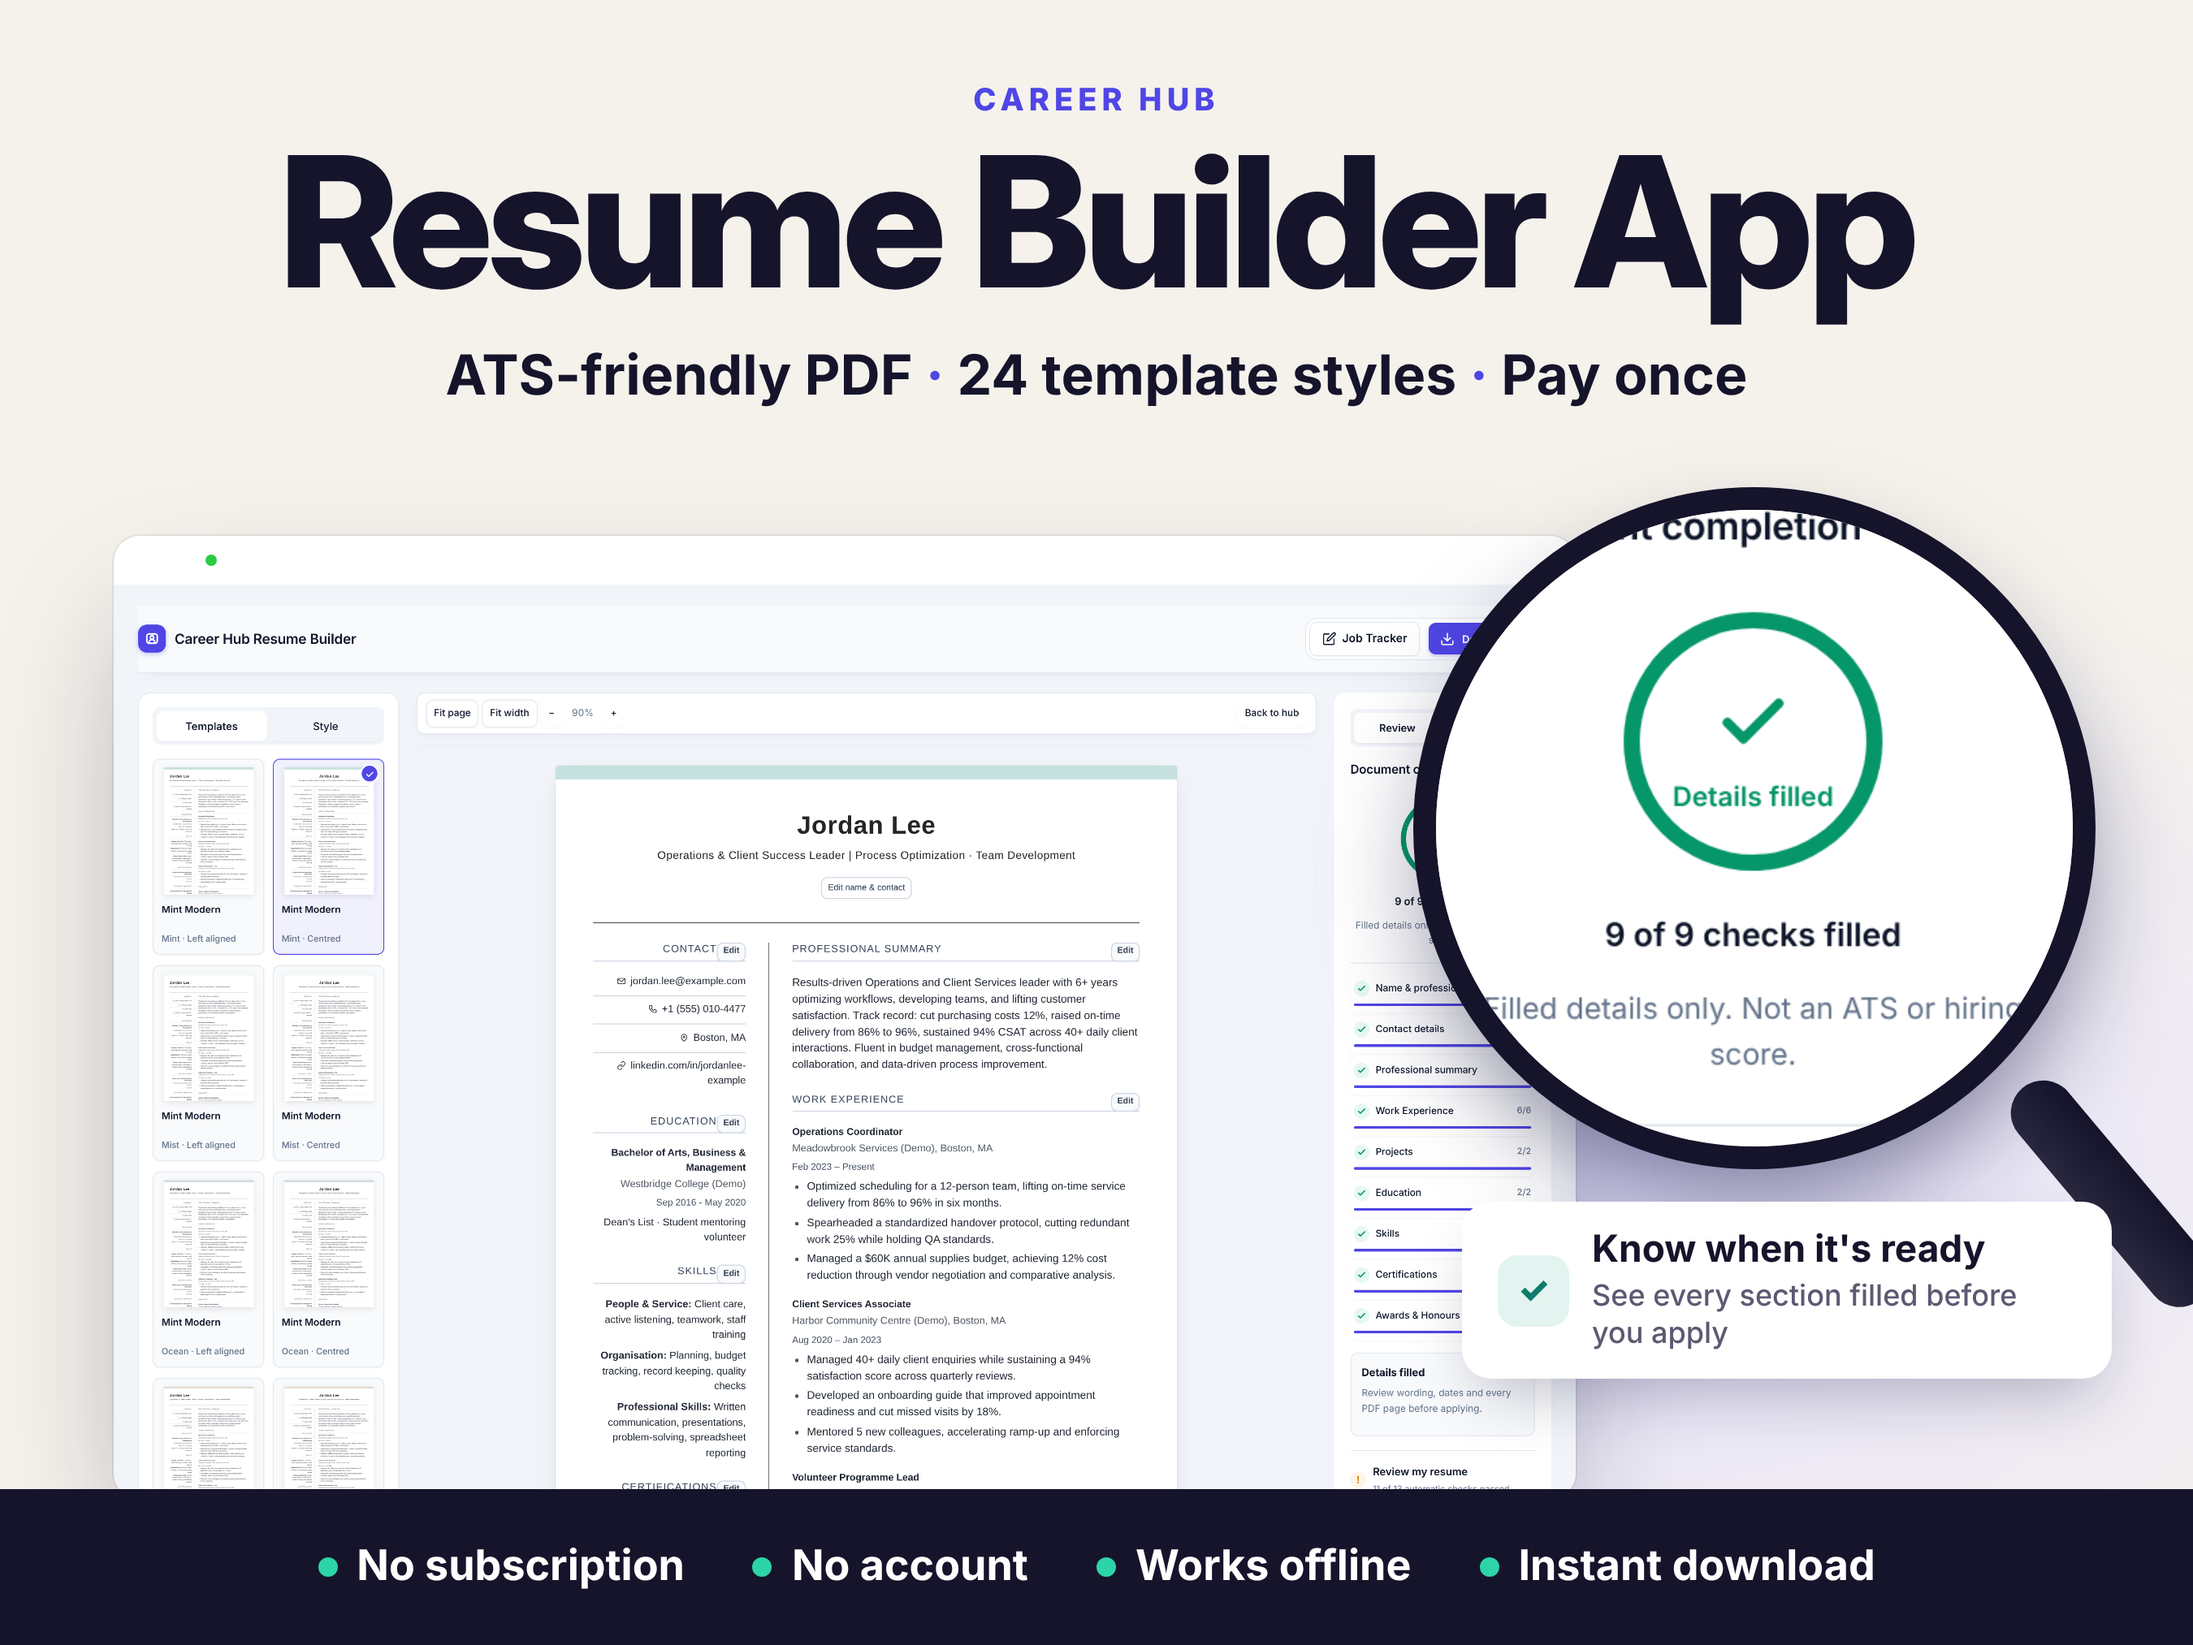
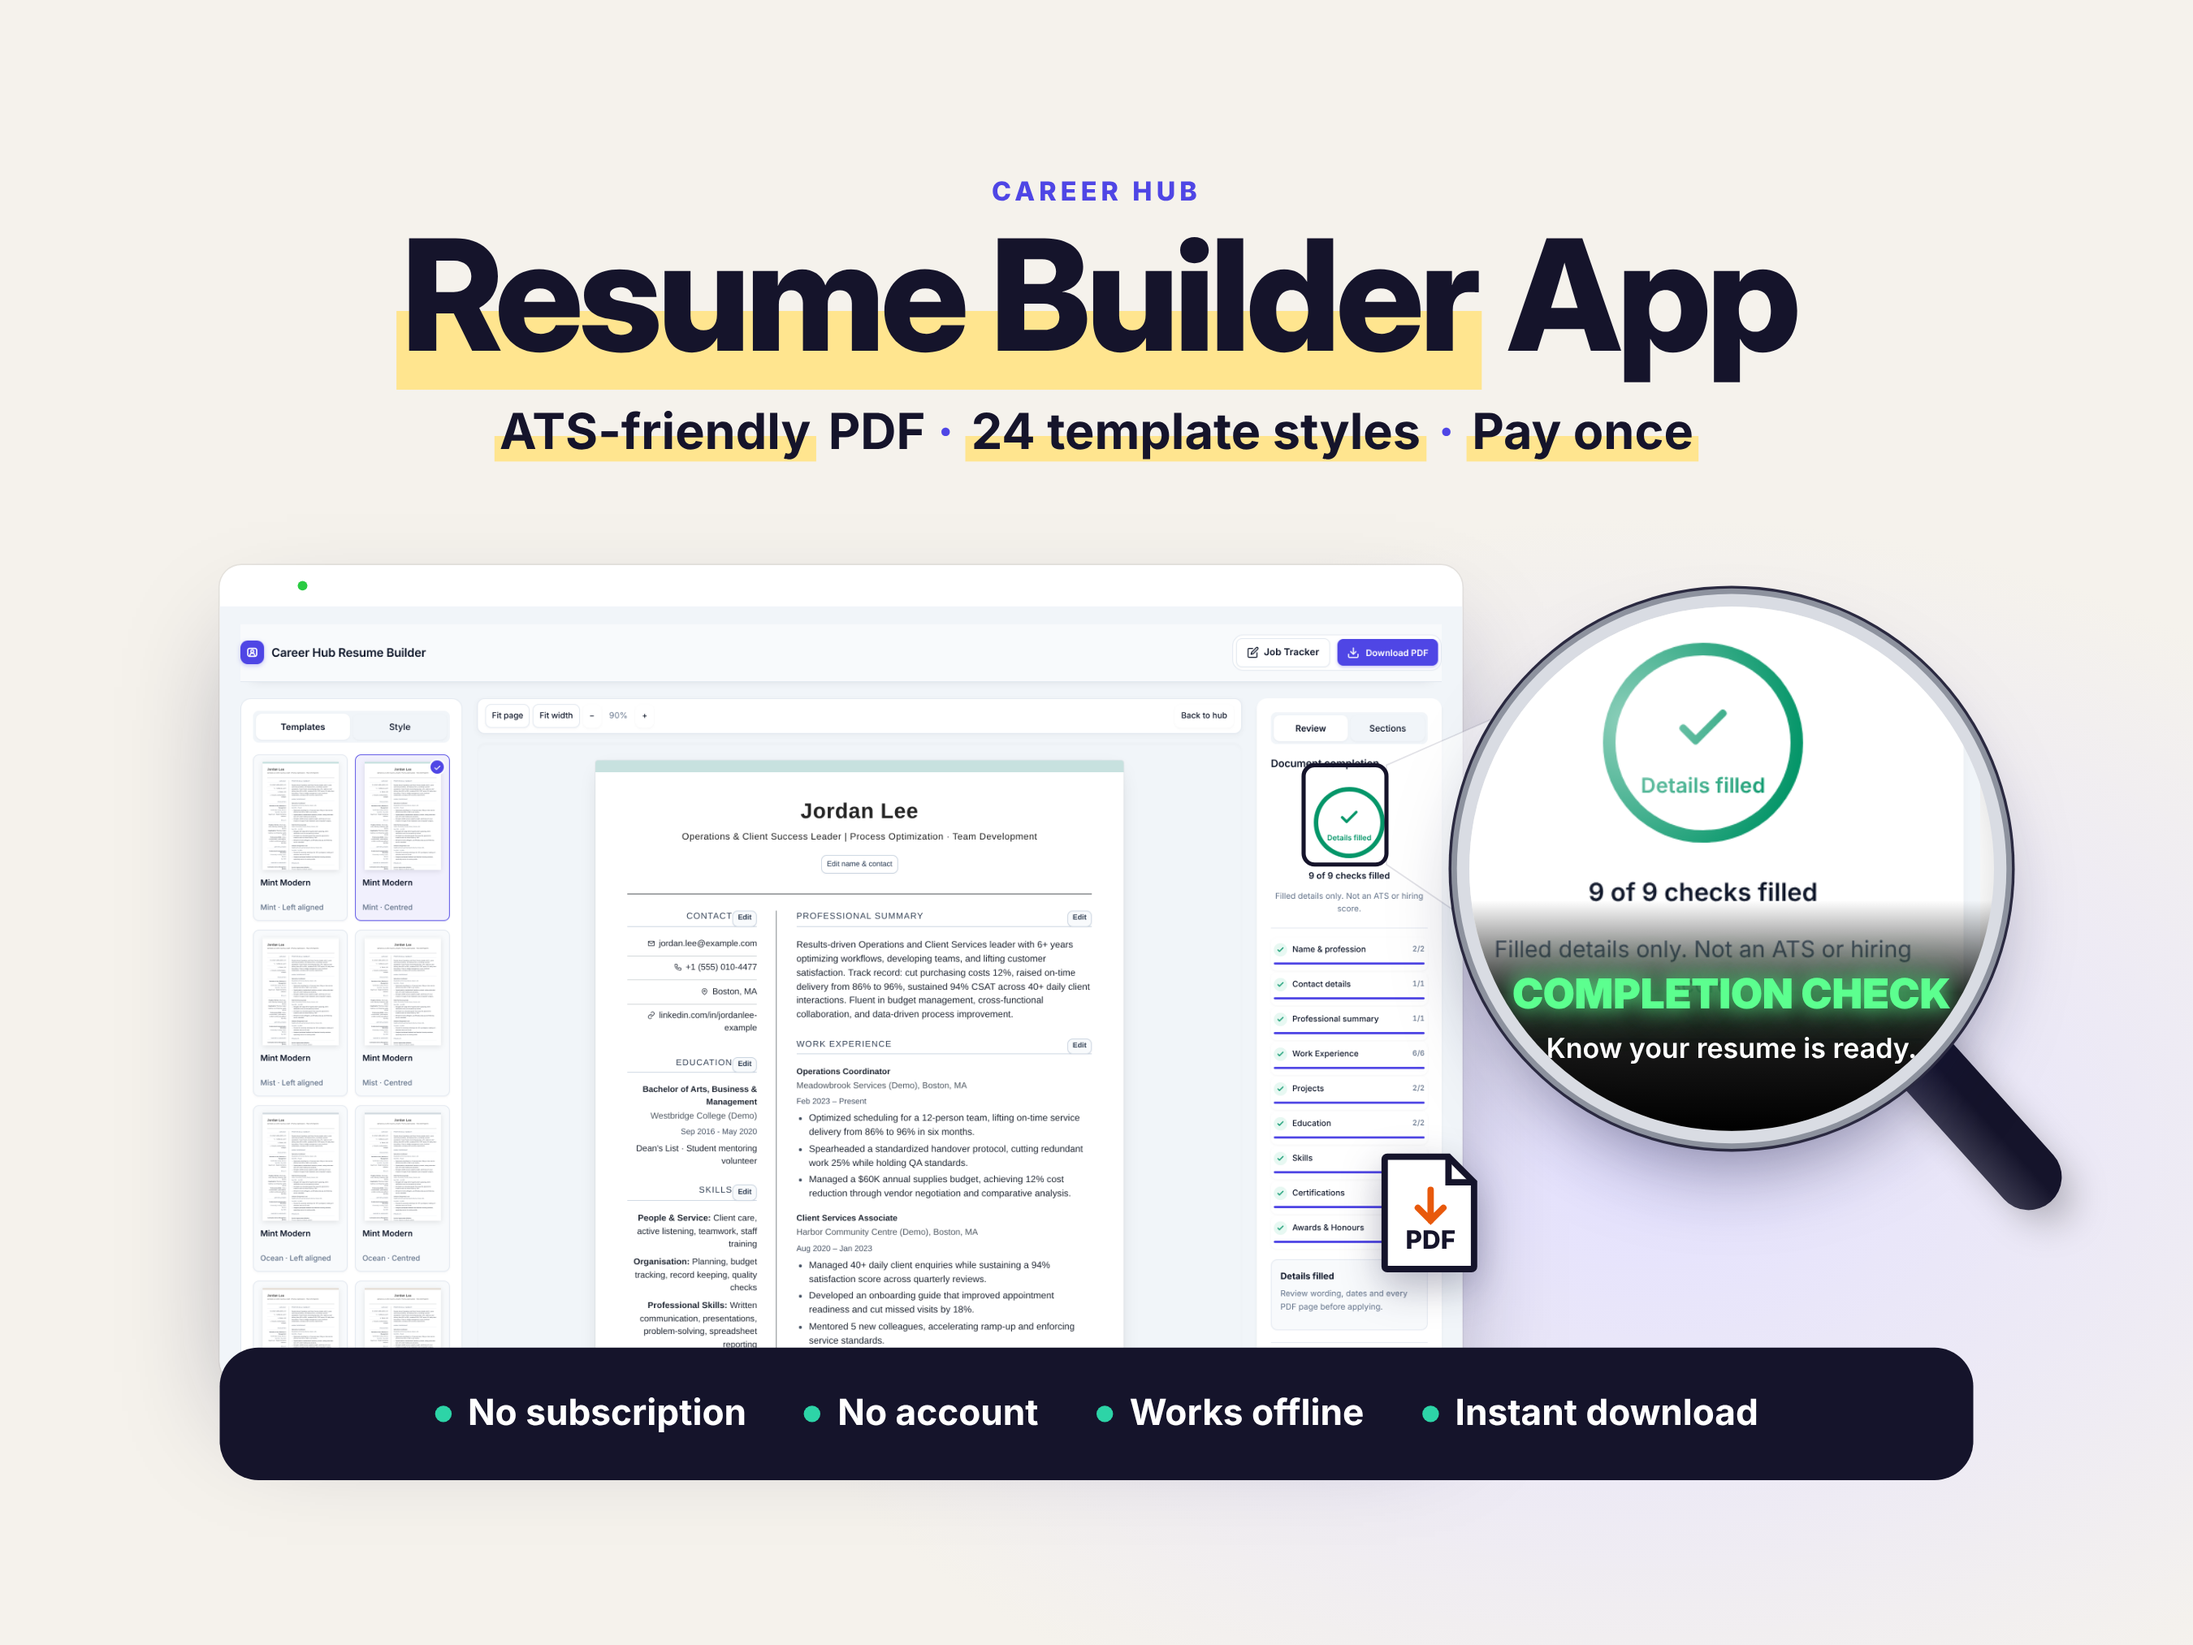
f

diff --git a/3-ETSY-LISTING/generator.html b/3-ETSY-LISTING/generator.html
@@ -57,19 +57,32 @@ mark{background:linear-gradient(transparent 58%,var(--yl) 58%);color:inherit;pad
 .handle{position:absolute;width:40px;height:170px;background:linear-gradient(90deg,#2A2940,#15142B);border-radius:20px;transform-origin:top center}
 .strip{position:absolute;left:0;right:0;bottom:0;height:96px;background:#15142B;color:#fff;display:flex;align-items:center;justify-content:center;gap:42px;font:700 26px Inter}
 .strip span{display:flex;align-items:center;gap:12px}.strip i{width:12px;height:12px;border-radius:50%;background:#2DD4A7;display:block}
+.lens{position:absolute;width:380px;height:380px;border-radius:50%;overflow:hidden;background:#fff;z-index:4;box-shadow:0 0 0 9px #D9DCE3,0 0 0 13px #8D929E,0 0 0 15px #2A2940,0 30px 60px -10px rgba(20,20,60,.55),inset 0 0 30px rgba(0,0,0,.15)}
+.lens img{position:absolute;display:block}
+.lens:before{content:"";position:absolute;inset:0;z-index:2;background:radial-gradient(circle at 30% 22%,rgba(255,255,255,.55),transparent 32%)}
+.lt{position:absolute;left:0;right:0;bottom:0;height:44%;z-index:1;background:linear-gradient(transparent,rgba(0,0,0,.85) 40%,#000);display:flex;flex-direction:column;align-items:center;justify-content:flex-end;padding-bottom:48px;text-align:center}
+.lt b{font:900 30px/1 'Inter Display';color:#5CFF8F;letter-spacing:.01em;text-shadow:0 0 14px rgba(92,255,143,.8),0 0 30px rgba(92,255,143,.5)}
+.lt span{font:600 20px Inter;color:#fff;margin-top:12px}
+.handle2{position:absolute;width:48px;height:190px;border-radius:24px;transform:rotate(-42deg);transform-origin:top center;z-index:3;background:linear-gradient(90deg,#3a394f,#15142B 60%);box-shadow:0 20px 30px -10px rgba(0,0,0,.4)}
+.handle2:before{content:"";position:absolute;left:-4px;right:-4px;top:-6px;height:44px;border-radius:10px;background:linear-gradient(90deg,#EEF0F4,#9BA0AB)}
+.pdf{position:absolute;width:74px;z-index:3;filter:drop-shadow(0 10px 14px rgba(20,20,60,.3))}
+.gold{background:linear-gradient(120deg,#FFE7A3,#F5C451 55%,#E9A92F);padding:0 12px 4px;border-radius:14px;box-decoration-break:clone;-webkit-box-decoration-break:clone;box-shadow:0 10px 24px -10px rgba(233,169,47,.7)}
 </style></head><body>
 
 
 <!-- 1 HERO -->
 <section class="slide" style="background:radial-gradient(900px 600px at 75% 70%,#E4E1FF 0,transparent 65%),var(--bg)">
- <div class="hdc" style="top:52px"><div class="k">Career Hub</div>
-  <h1 style="font-size:112px;margin-top:12px">Resume Builder App</h1>
-  <div class="sub" style="font:700 34px Inter;color:var(--ink);margin-top:18px">ATS-friendly PDF <span style="color:var(--ind)">·</span> 24 template styles <span style="color:var(--ind)">·</span> Pay once</div></div>
- <div class="brw" style="left:70px;top:330px;width:900px"><img src="img2/focus-resume.png"></div>
- <div class="handle" style="left:1225px;top:670px;transform:rotate(-40deg)"></div>
- <div class="mag" style="left:870px;top:300px;width:420px;height:420px"><img src="img2/mag.png" style="width:440px;left:-24px;top:-10px"></div>
- <div class="tag tl" style="left:900px;top:740px;max-width:400px;z-index:3"><div class="ic">✓</div><div>Know when it's ready<small>See every section filled before you apply</small></div></div>
- <div class="strip"><span><i></i>No subscription</span><span><i></i>No account</span><span><i></i>Works offline</span><span><i></i>Instant download</span></div>
+<div style="position:absolute;inset:0;transform:scale(.85);transform-origin:50% 50%">
+ <div class="hdc" style="top:40px"><div class="k">Career Hub</div>
+  <h1 style="font-size:112px;margin-top:12px"><mark>Resume Builder</mark> App</h1>
+  <div class="sub" style="font:700 36px Inter;color:var(--ink);margin-top:20px;max-width:none"><mark>ATS-friendly</mark> PDF <span style="color:var(--ind)">·</span> <mark>24 template styles</mark> <span style="color:var(--ind)">·</span> <mark>Pay once</mark></div></div>
+ <div class="brw" style="left:40px;top:320px;width:900px"><img src="img2/focus-resume.png"></div>
+ <svg style="position:absolute;left:0;top:0;width:1350px;height:1013px;z-index:2" viewBox="0 0 1350 1013"><polygon points="885,465 1125,360 1125,700 885,537" fill="rgba(255,255,255,.55)" stroke="rgba(20,20,60,.12)"/><rect x="825" y="465" width="60" height="72" rx="8" fill="none" stroke="#15142B" stroke-width="3"/></svg>
+ <div class="handle2" style="left:1215px;top:640px"></div>
+ <div class="lens" style="left:945px;top:350px"><img src="img2/mag.png" style="width:400px;left:-30px;top:-40px"><div class="lt"><b>COMPLETION CHECK</b><span>Know your resume is ready.</span></div></div>
+ <div class="pdf" style="left:880px;top:745px"><svg viewBox="0 0 80 96"><path d="M6 4h48l20 20v66a2 2 0 0 1-2 2H6a2 2 0 0 1-2-2V6a2 2 0 0 1 2-2z" fill="#fff" stroke="#15142B" stroke-width="5"/><path d="M54 4v20h20" fill="none" stroke="#15142B" stroke-width="5"/><text x="40" y="76" font-family="Inter" font-weight="800" font-size="20" text-anchor="middle" fill="#15142B">PDF</text><path d="M40 30v24m-10-10l10 10 10-10" fill="none" stroke="#E8590C" stroke-width="5" stroke-linecap="round"/></svg></div>
+ <div class="strip" style="border-radius:28px;left:40px;right:40px;bottom:30px"><span><i></i>No subscription</span><span><i></i>No account</span><span><i></i>Works offline</span><span><i></i>Instant download</span></div>
+</div>
 </section>
 
 <!-- 2 EVERYTHING -->
@@ -123,7 +136,7 @@ mark{background:linear-gradient(transparent 58%,var(--yl) 58%);color:inherit;pad
 
 <!-- 7 BANK -->
 <section class="slide">
- <div class="hd"><div class="k">Experience bank</div><h2>Write it once. <mark>Reuse it for every job.</mark></h2><div class="sub">Store your roles, projects and skills. Choose what to show for each application.</div></div>
+ <div class="hd" style="width:1000px"><div class="k">Experience bank</div><h2>Write it once.<br><span class="gold">Reuse it for every job.</span></h2><div class="sub">Store your roles, projects and skills. Choose what to show for each application.</div></div>
  <div class="brw" style="left:500px;top:440px;width:900px"><img src="img2/experience-bank.png"></div>
  <div class="ppr" style="left:84px;top:440px;width:330px;height:400px;border-radius:16px"><img src="img2/secs.png"></div>
  <div class="tag tl" style="left:84px;top:860px;z-index:3"><div class="ic">✓</div><div>Tailor in clicks<small>Show, hide or reorder sections</small></div></div>

diff --git a/3-ETSY-LISTING/ETSY-LISTING-KIT.md b/3-ETSY-LISTING/ETSY-LISTING-KIT.md
@@ -2,9 +2,8 @@
 
 Updated 6 October 2026. All claims match the real app. Images use real app screenshots and real exported PDFs only.
 
-## Title (121/140)
-
-ATS Resume Template Builder, Cover Letter & Job Application Tracker, Printable PDF Resume, Modern CV, Job Search Planner
+## Title (11 words, no repeats — Etsy rule)
+ATS Resume Builder App, 24 Templates, Cover Letter & Job Tracker, Printable PDF (Digital Download)
 
 ## Tags (13)
 
